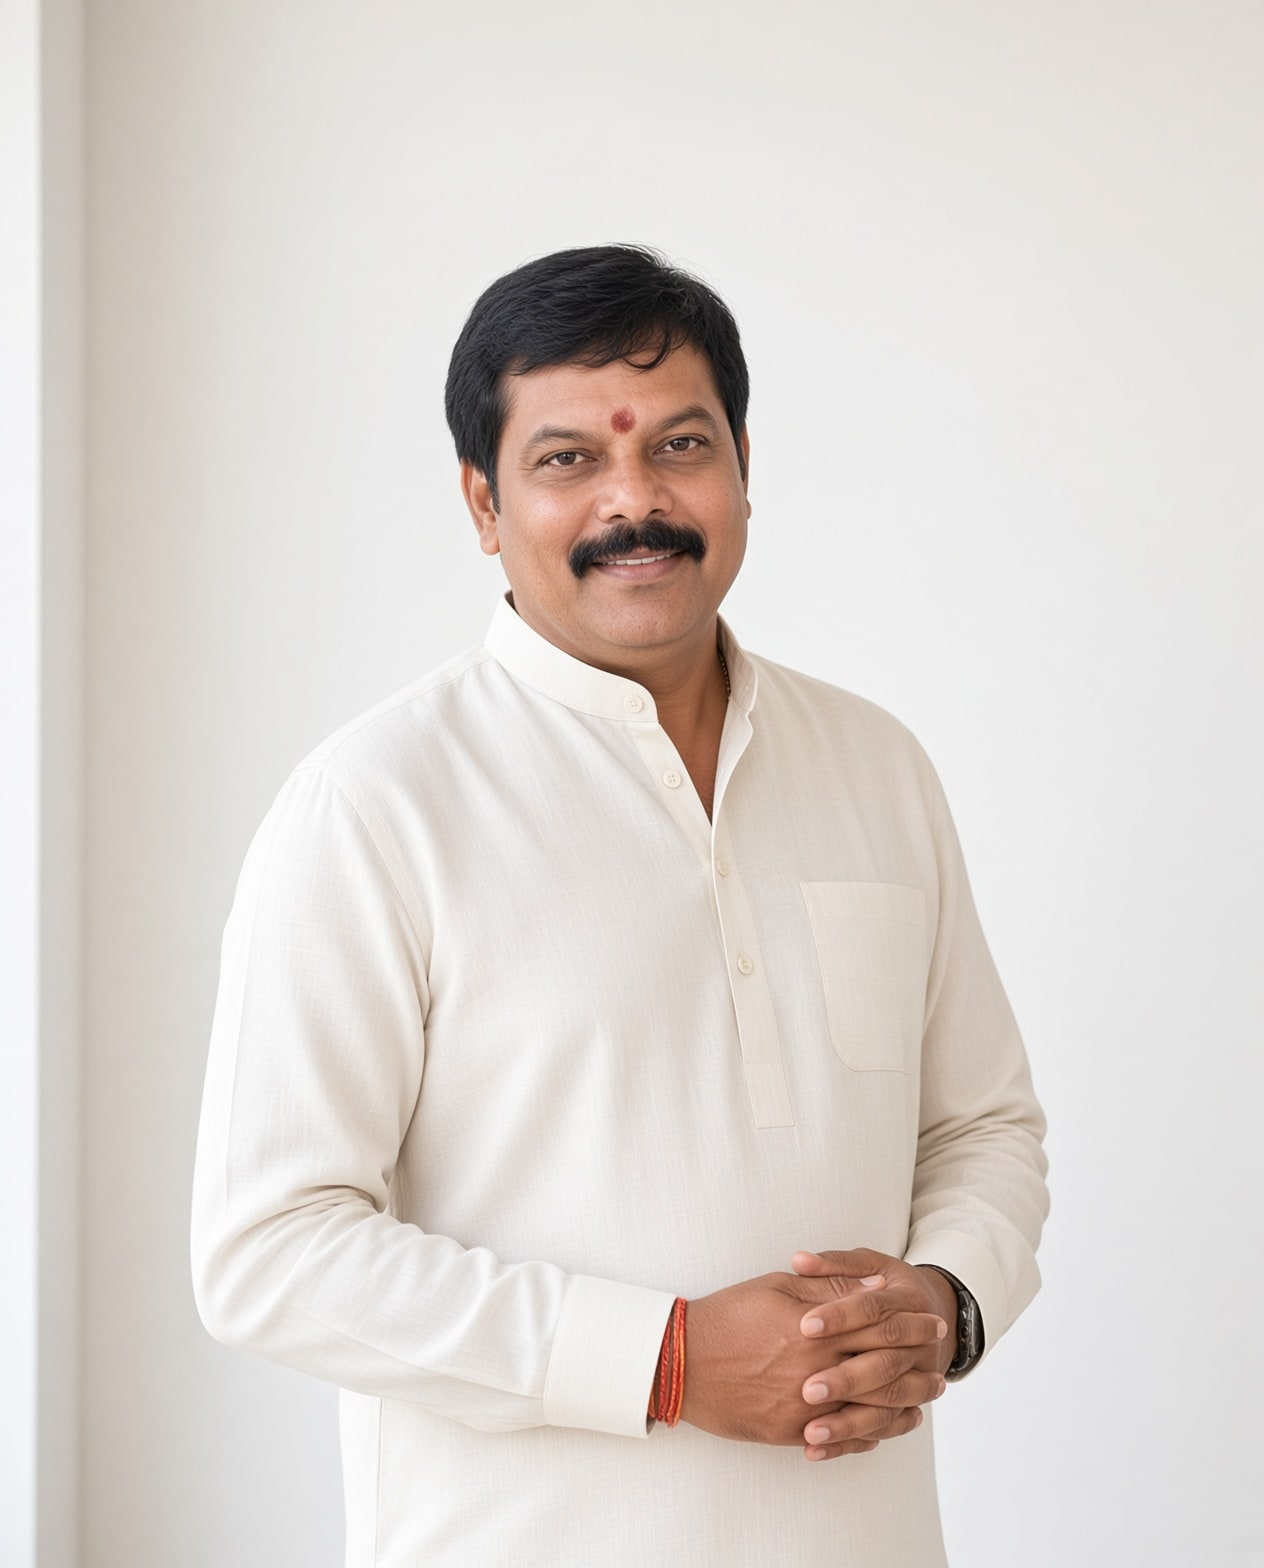
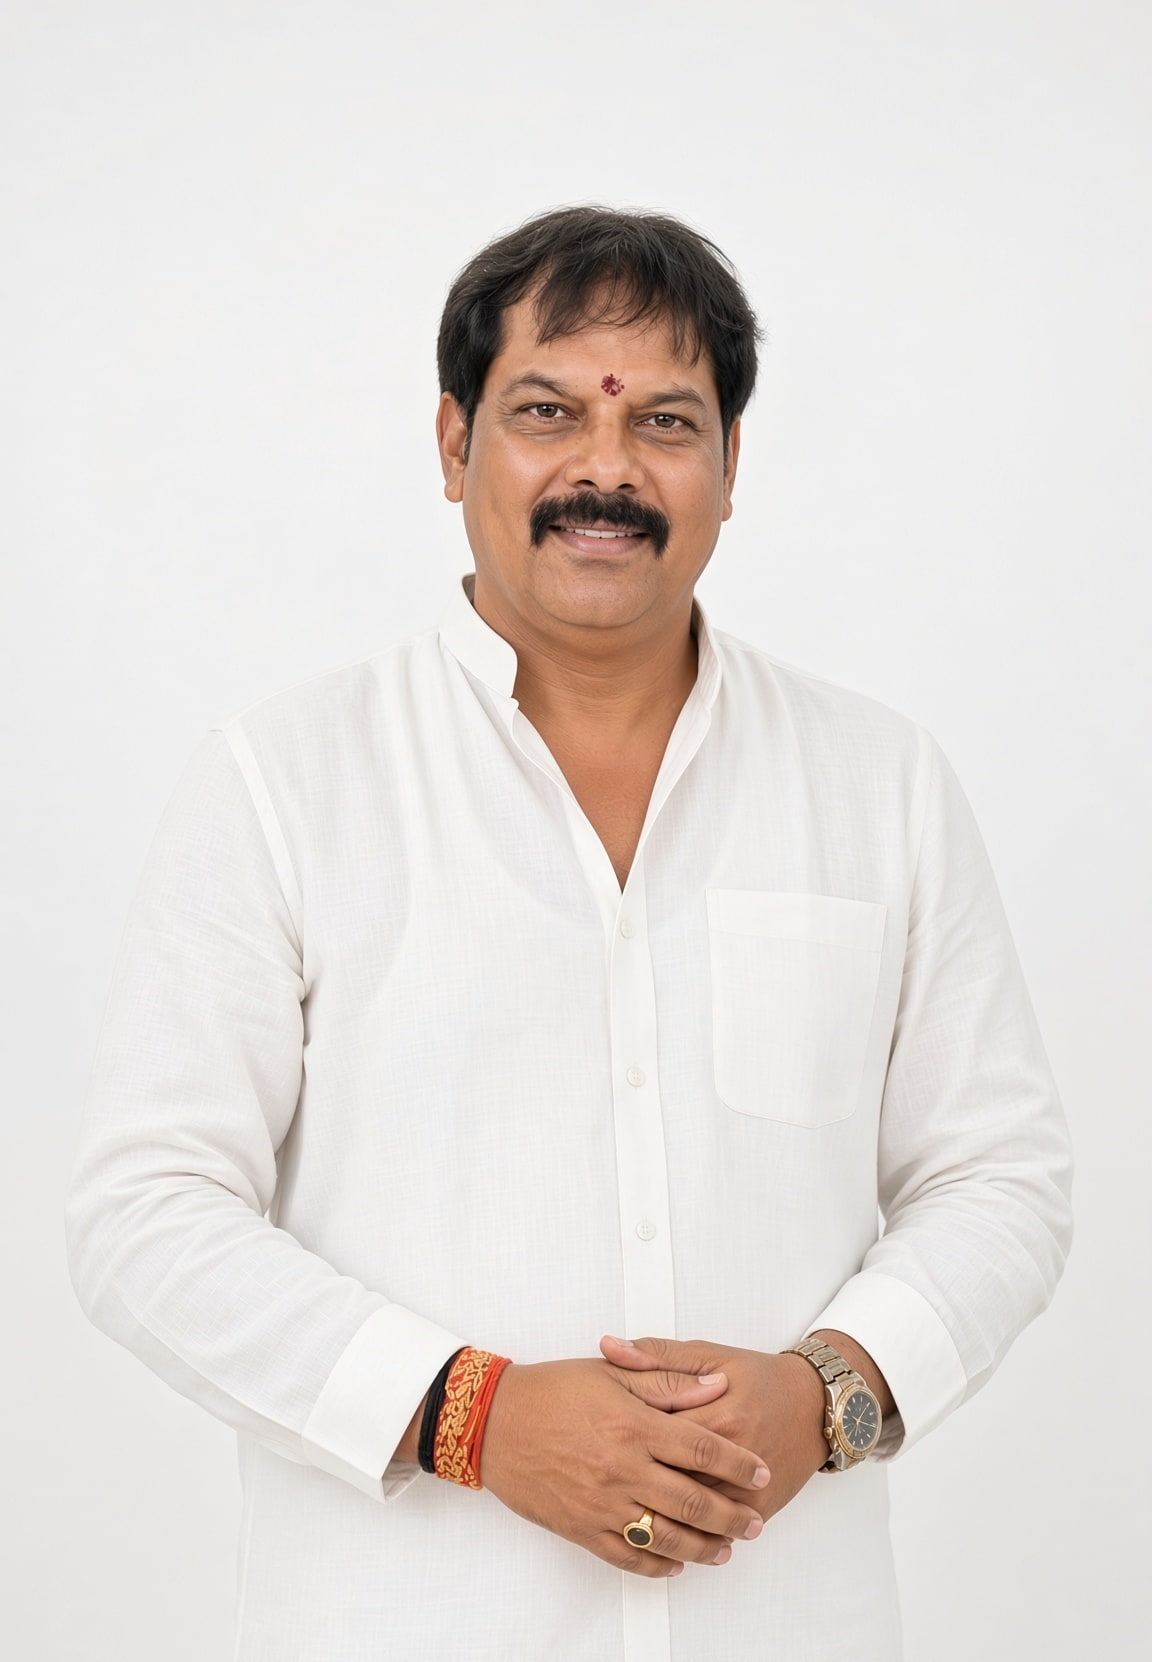
Refactor code structure for improved readability and maintainability

diff --git a/components/hero.css b/components/hero.css
@@ -1,7 +1,7 @@
 /* Home hero ("rh") and the facts strip under it. Warm cream page colour, big bold name, a three-fact snapshot, the photograph on the right,
    a slim bar along the bottom. Self-contained: it does not use the older .hero / .slide rules in globals.css. */
 .rh-sec{padding:0}
-.rh{--rh-x:max(72px,calc((100cqw - var(--w)) / 2));--rh-h:clamp(600px,calc(100vh - 78px),800px);
+.rh{--rh-x:max(72px,calc((100cqw - var(--w)) / 2));--rh-h:clamp(620px,calc(100vh - 78px),880px);
   position:relative;overflow:hidden;container-type:inline-size;color:#17110c;
   --rh-bg:linear-gradient(100deg,#fbf6ec 0%,#f6ead2 55%,#f0dcb6 100%);background:var(--rh-bg)}
 .rh-track{display:flex;transition:transform .8s var(--ease)}
@@ -41,13 +41,15 @@ html[lang="en"] .rh-snap dt{letter-spacing:.16em;text-transform:uppercase}
 .rh-photo img{object-fit:cover}
 .rh-slide:not(.is-studio):not(.is-wide) .rh-photo{-webkit-mask-image:linear-gradient(90deg,transparent 0,#000 26%);mask-image:linear-gradient(90deg,transparent 0,#000 26%)}
 
-/* studio portrait: the light wall is multiplied into the cream page, so he stands straight on the slide with no box around him.
-   The slide paints the page gradient itself because the track is its own stacking context and the blend needs something to blend with. */
-.rh-slide.is-studio{background:var(--rh-bg)}
-.rh-slide.is-studio .rh-photo:before{content:"";position:absolute;left:50%;bottom:0;transform:translateX(-50%);width:min(86%,560px);height:90%;border-radius:999px 999px 0 0;background:linear-gradient(180deg,#f6b66a55,#e98a3a33)}
-.rh-slide.is-studio .rh-photo img{mix-blend-mode:multiply;
-  -webkit-mask-image:linear-gradient(90deg,transparent 0,#000 32%,#000 78%,transparent 100%),linear-gradient(180deg,transparent 0,#000 24%);
-  -webkit-mask-composite:source-in;mask-image:linear-gradient(90deg,transparent 0,#000 32%,#000 78%,transparent 100%),linear-gradient(180deg,transparent 0,#000 24%);mask-composite:intersect}
+/* studio portrait: the whole photograph is shown (nothing cropped). Its light wall is multiplied into the page colour, so there is no box
+   or frame around him, only a soft warm glow behind. The slide paints the gradient itself because the track is its own stacking context
+   and the blend needs something to blend with. */
+.rh-slide.is-studio{--rh-bg:linear-gradient(100deg,#fffdf8 0%,#fcf5e6 55%,#f7e6c4 100%);background:var(--rh-bg)}
+.rh-slide.is-studio .rh-photo{margin-bottom:52px}
+.rh-slide.is-studio .rh-photo:before{content:"";position:absolute;inset:0;background:radial-gradient(60% 55% at 50% 58%,#f4b768a6 0%,#f4b76833 55%,transparent 75%)}
+.rh-slide.is-studio .rh-photo img{mix-blend-mode:multiply;filter:brightness(1.07);
+  -webkit-mask-image:linear-gradient(90deg,transparent 0,#000 12%,#000 88%,transparent 100%),linear-gradient(180deg,transparent 0,#000 10%);
+  -webkit-mask-composite:source-in;mask-image:linear-gradient(90deg,transparent 0,#000 12%,#000 88%,transparent 100%),linear-gradient(180deg,transparent 0,#000 10%);mask-composite:intersect}
 
 /* wide scene: the photograph runs under the copy from the right edge, its own empty wall fades into the page colour */
 .rh-slide.is-wide{position:relative;background:var(--rh-bg)}
@@ -94,7 +96,7 @@ html[lang="en"] .rh-bar{letter-spacing:.2em;text-transform:uppercase}
   .rh-slide{display:flex;flex-direction:column;min-height:0;padding-left:0}
   .rh-photo{order:-1;height:clamp(300px,82vw,470px);flex:none}
   .rh-slide .rh-photo{-webkit-mask-image:none;mask-image:none}
-  .rh-slide.is-studio .rh-photo:before{width:84%}
+  .rh-slide.is-studio .rh-photo{height:min(128vw,580px);margin-bottom:0}
   .rh-copy{padding:24px 20px 80px}
   .rh-title{font-size:clamp(30px,8.6vw,42px)}
   html[lang="hi"] .rh-title{font-size:clamp(28px,8vw,38px)}

diff --git a/app/[lang]/page.tsx b/app/[lang]/page.tsx
@@ -17,7 +17,7 @@ import { getVideos } from "@/lib/youtube";
 /* Hero: three slides. The first is the studio portrait, the second the wide desk scene, the third a candid photograph. */
 const heroSlides = (lang: Lang): Slide[] => [
   {
-    img: img.heroStudio, look: "studio", pos: "50% 12%", alt: { hi: "विधायक विनय कुमार द्विवेदी", en: "MLA Vinay Kumar Dwivedi" },
+    img: img.heroStudio, look: "studio", alt: { hi: "विधायक विनय कुमार द्विवेदी", en: "MLA Vinay Kumar Dwivedi" },
     eyebrow: { hi: "विधायक, मेहनौन (295)", en: "MLA, Mehnaun (295)" },
     title: site.name, sub: { hi: `(${site.nickname.hi})`, en: `(${site.nickname.en})` },
     text: { hi: "दो दशकों की जनसेवा। गाँव की पंचायत से विधानसभा तक का सफ़र।", en: "Two decades of public service, from the village panchayat to the Assembly." },
@@ -126,21 +126,18 @@ export default async function Home({ params }: { params: Promise<{ lang: string 
 
       {/* PERSONALITY: one photograph, the biography as three labelled rows */}
       <section className="persona" aria-labelledby="persona-title">
-        <div className="wrap persona-grid">
-          <figure className="persona-fig">
-            <Pic src={img.hero} alt={t("माइक पर जनसभा को संबोधित करते विनय कुमार द्विवेदी", "Vinay Kumar Dwivedi addressing a public gathering")} placeholder="blur" sizes="(max-width: 900px) 90vw, 480px" />
-            <figcaption><b>{tr(site.nickname, lang)}</b>{t("विधायक, मेहनौन (295)", "MLA, Mehnaun (295)")}</figcaption>
-          </figure>
-          <div className="persona-body">
-            <span className="eyebrow">{t("व्यक्तित्व", "Personality")}</span>
-            <h2 id="persona-title">{tr(site.name, lang)}</h2>
-            <dl className="persona-rows">
-              {profileRows.map((r, n) => <div key={n}><dt><b>{String(n + 1).padStart(2, "0")}</b>{tr(r.label, lang)}</dt><dd>{tr(r.text, lang)}</dd></div>)}
-            </dl>
-            <div className="persona-actions">
-              <Link className="btn btn-orange" href={href(lang, "/about")}>{t("पूरा परिचय", "Full biography")} <Icon name="arrow" /></Link>
-              <Link className="link-arrow" href={href(lang, "/about#journey")}>{t("जीवन यात्रा", "Life journey")} <Icon name="arrow" /></Link>
-            </div>
+        <figure className="persona-fig">
+          <Pic src={img.persona} alt={t("विधायक विनय कुमार द्विवेदी", "MLA Vinay Kumar Dwivedi")} placeholder="blur" sizes="(max-width: 900px) 100vw, 42vw" />
+        </figure>
+        <div className="persona-body">
+          <span className="eyebrow">{t("व्यक्तित्व", "Personality")}</span>
+          <h2 id="persona-title">{tr(site.name, lang)}</h2>
+          <dl className="persona-rows">
+            {profileRows.map((r, n) => <div key={n}><dt><b>{String(n + 1).padStart(2, "0")}</b>{tr(r.label, lang)}</dt><dd>{tr(r.text, lang)}</dd></div>)}
+          </dl>
+          <div className="persona-actions">
+            <Link className="btn btn-orange" href={href(lang, "/about")}>{t("पूरा परिचय", "Full biography")} <Icon name="arrow" /></Link>
+            <Link className="link-arrow" href={href(lang, "/about#journey")}>{t("जीवन यात्रा", "Life journey")} <Icon name="arrow" /></Link>
           </div>
         </div>
       </section>

diff --git a/components/persona.css b/components/persona.css
@@ -1,13 +1,9 @@
-/* Home "Personality" block: one photograph on the left, the biography as three labelled rows on the right. */
-.persona{padding:clamp(48px,7vw,96px) 0;background:var(--beige-2)}
-.persona-grid{display:grid;grid-template-columns:minmax(0,5fr) minmax(0,7fr);gap:clamp(32px,6vw,88px);align-items:center}
+/* Home "Personality" block: a full-height photograph runs edge to edge on the left (no frame, no card), the biography sits beside it as three labelled rows. */
+.persona{display:grid;grid-template-columns:minmax(0,5fr) minmax(0,7fr);background:var(--beige-2)}
+.persona-fig{position:relative;margin:0;min-height:560px;background:#111}
+.persona-fig img{position:absolute;inset:0;width:100%;height:100%;object-fit:cover;object-position:50% 18%}
 
-.persona-fig{position:relative;margin:0 0 0 14px;max-width:480px;justify-self:center;width:100%}
-.persona-fig:before{content:"";position:absolute;inset:18px -14px -14px 18px;border-radius:18px;background:#f29933;opacity:.28}
-.persona-fig img{position:relative;display:block;width:100%;aspect-ratio:4/5;object-fit:cover;border-radius:18px;box-shadow:0 24px 50px -24px #0009}
-.persona-fig figcaption{position:absolute;left:16px;bottom:16px;right:16px;display:flex;flex-direction:column;gap:2px;padding:12px 16px;border-radius:12px;background:#17120fcc;color:#ffffffd9;font-size:13.5px;backdrop-filter:blur(4px)}
-.persona-fig figcaption b{font-size:17px;font-weight:600;color:#fff}
-
+.persona-body{align-self:center;padding:clamp(44px,6vw,88px) max(24px,calc((100vw - var(--w)) / 2)) clamp(44px,6vw,88px) clamp(32px,5vw,84px)}
 .persona-body .eyebrow{margin-bottom:10px}
 html[lang="en"] .persona-body .eyebrow{font-size:12.5px;letter-spacing:.22em;text-transform:uppercase}
 .persona-body h2{font-size:clamp(30px,3.4vw,46px);line-height:1.15;color:var(--navy-3)}
@@ -22,7 +18,8 @@ html[lang="en"] .persona-body .eyebrow{font-size:12.5px;letter-spacing:.22em;tex
 .persona-actions{display:flex;flex-wrap:wrap;align-items:center;gap:14px 28px;margin-top:28px}
 
 @media (max-width:900px){
-  .persona-grid{grid-template-columns:1fr}
-  .persona-fig{max-width:420px;margin:0 14px 0 0}
+  .persona{grid-template-columns:1fr}
+  .persona-fig{min-height:0;height:min(120vw,520px)}
+  .persona-body{padding:32px 20px 44px}
   .persona-rows>div{grid-template-columns:1fr;padding:16px 0}
 }

diff --git a/lib/images.ts b/lib/images.ts
@@ -30,6 +30,7 @@ import honouringGuest from "@/images/honouring-guest.jpg";
 import meetingGreeting from "@/images/meeting-greeting.jpg";
 import memento from "@/images/memento.jpg";
 import officialMeeting from "@/images/official-meeting.jpg";
+import persona from "@/images/persona.jpg";
 import portrait from "@/images/portrait.jpg";
 import portraitCut from "@/images/portrait-cut.webp";
 import publicProgramme from "@/images/public-programme.jpg";
@@ -45,7 +46,7 @@ import villagerChat from "@/images/villager-chat.jpg";
 
 export const img = {
   addressing, atWork, communityProgramme, farmerField, felicitation, hero, heroAchievements, heroComplaint, heroDesk, heroEcard, heroStudio, homeVisit, honouringGuest,
-  meetingGreeting, memento, officialMeeting, portrait, portraitCut, publicProgramme, reliefCheque, reliefSeeds, stateMeeting,
+  meetingGreeting, memento, officialMeeting, persona, portrait, portraitCut, publicProgramme, reliefCheque, reliefSeeds, stateMeeting,
   tribute, villageBaithak, villageElders, villageGreeting, villageWalk, villagerChat,
   /* from the official Facebook page (Oct 2026) */
   fbAvatar, fbCover, fbBagahi1, fbBagahi4, fbBinuhani1, fbBinuhani2, fbBinuhani3, fbBinuhani4, fbBinuhani5,
@@ -57,7 +58,7 @@ export const img = {
 const focus: Record<keyof typeof img, string> = {
   addressing: "50% 40%", atWork: "62% 18%", communityProgramme: "58% 30%", farmerField: "42% 28%",
   felicitation: "55% 18%", hero: "50% 14%", heroAchievements: "50% 34%", heroComplaint: "62% 24%", heroDesk: "72% 30%", heroStudio: "50% 22%", heroEcard: "58% 30%", homeVisit: "45% 35%", honouringGuest: "62% 28%",
-  meetingGreeting: "55% 22%", memento: "62% 30%", officialMeeting: "50% 20%", portrait: "50% 32%", portraitCut: "50% 20%", publicProgramme: "68% 50%",
+  meetingGreeting: "55% 22%", memento: "62% 30%", officialMeeting: "50% 20%", persona: "50% 20%", portrait: "50% 32%", portraitCut: "50% 20%", publicProgramme: "68% 50%",
   reliefCheque: "62% 38%", reliefSeeds: "62% 38%", stateMeeting: "50% 50%", tribute: "58% 42%",
   villageBaithak: "50% 55%", villageElders: "62% 42%", villageGreeting: "56% 44%", villageWalk: "55% 45%",
   villagerChat: "68% 32%",

diff --git a/components/Home.tsx b/components/Home.tsx
@@ -78,7 +78,7 @@ export function HeroSlider({ slides, tags }: { slides: Slide[]; tags: Bi[] }) {
               </div>
               <div className="rh-photo">
                 <Pic src={s.img} alt={pick(s.alt)} fill sizes="(max-width: 900px) 100vw, 50vw" preload={k === 0}
-                  style={{ objectFit: "cover", objectPosition: s.pos ?? "50% 25%" }} />
+                  style={s.look === "studio" ? { objectFit: "contain", objectPosition: "50% 100%" } : { objectFit: "cover", objectPosition: s.pos ?? "50% 25%" }} />
               </div>
             </article>
           );
